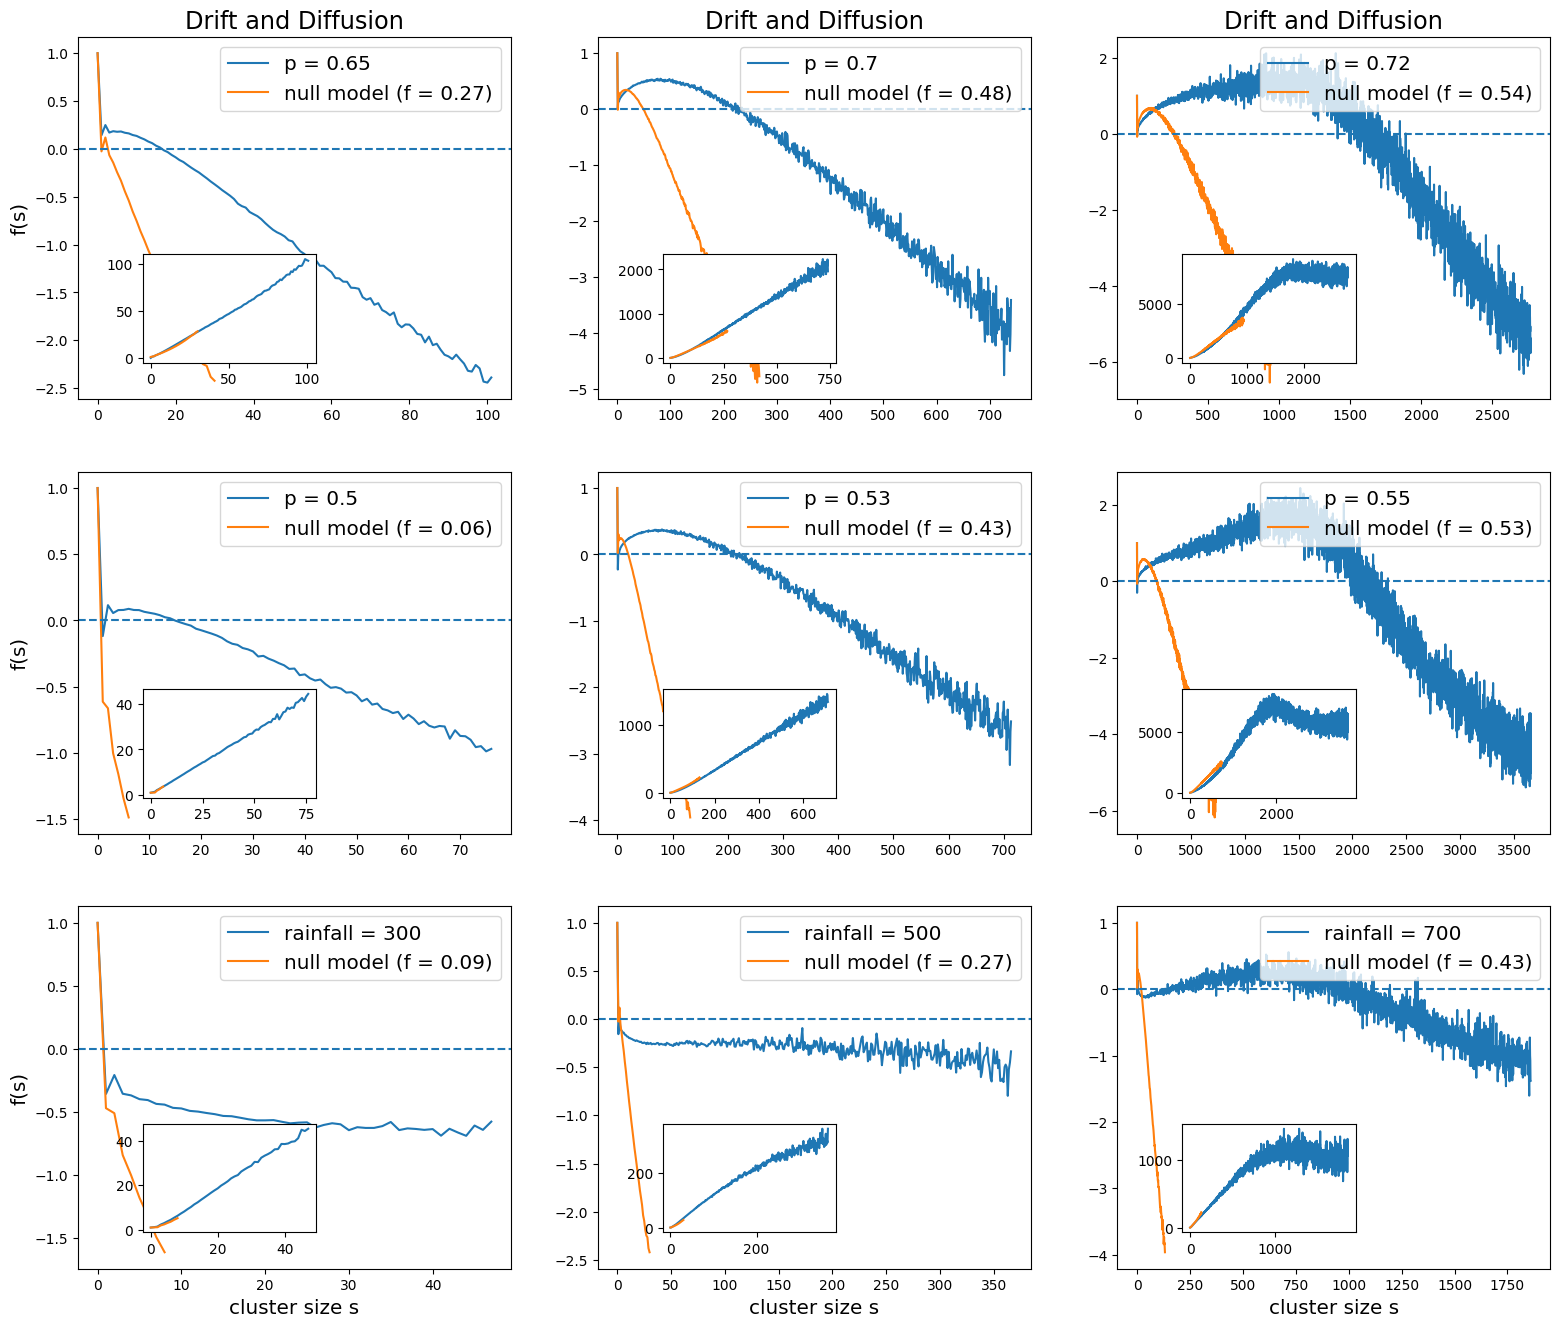
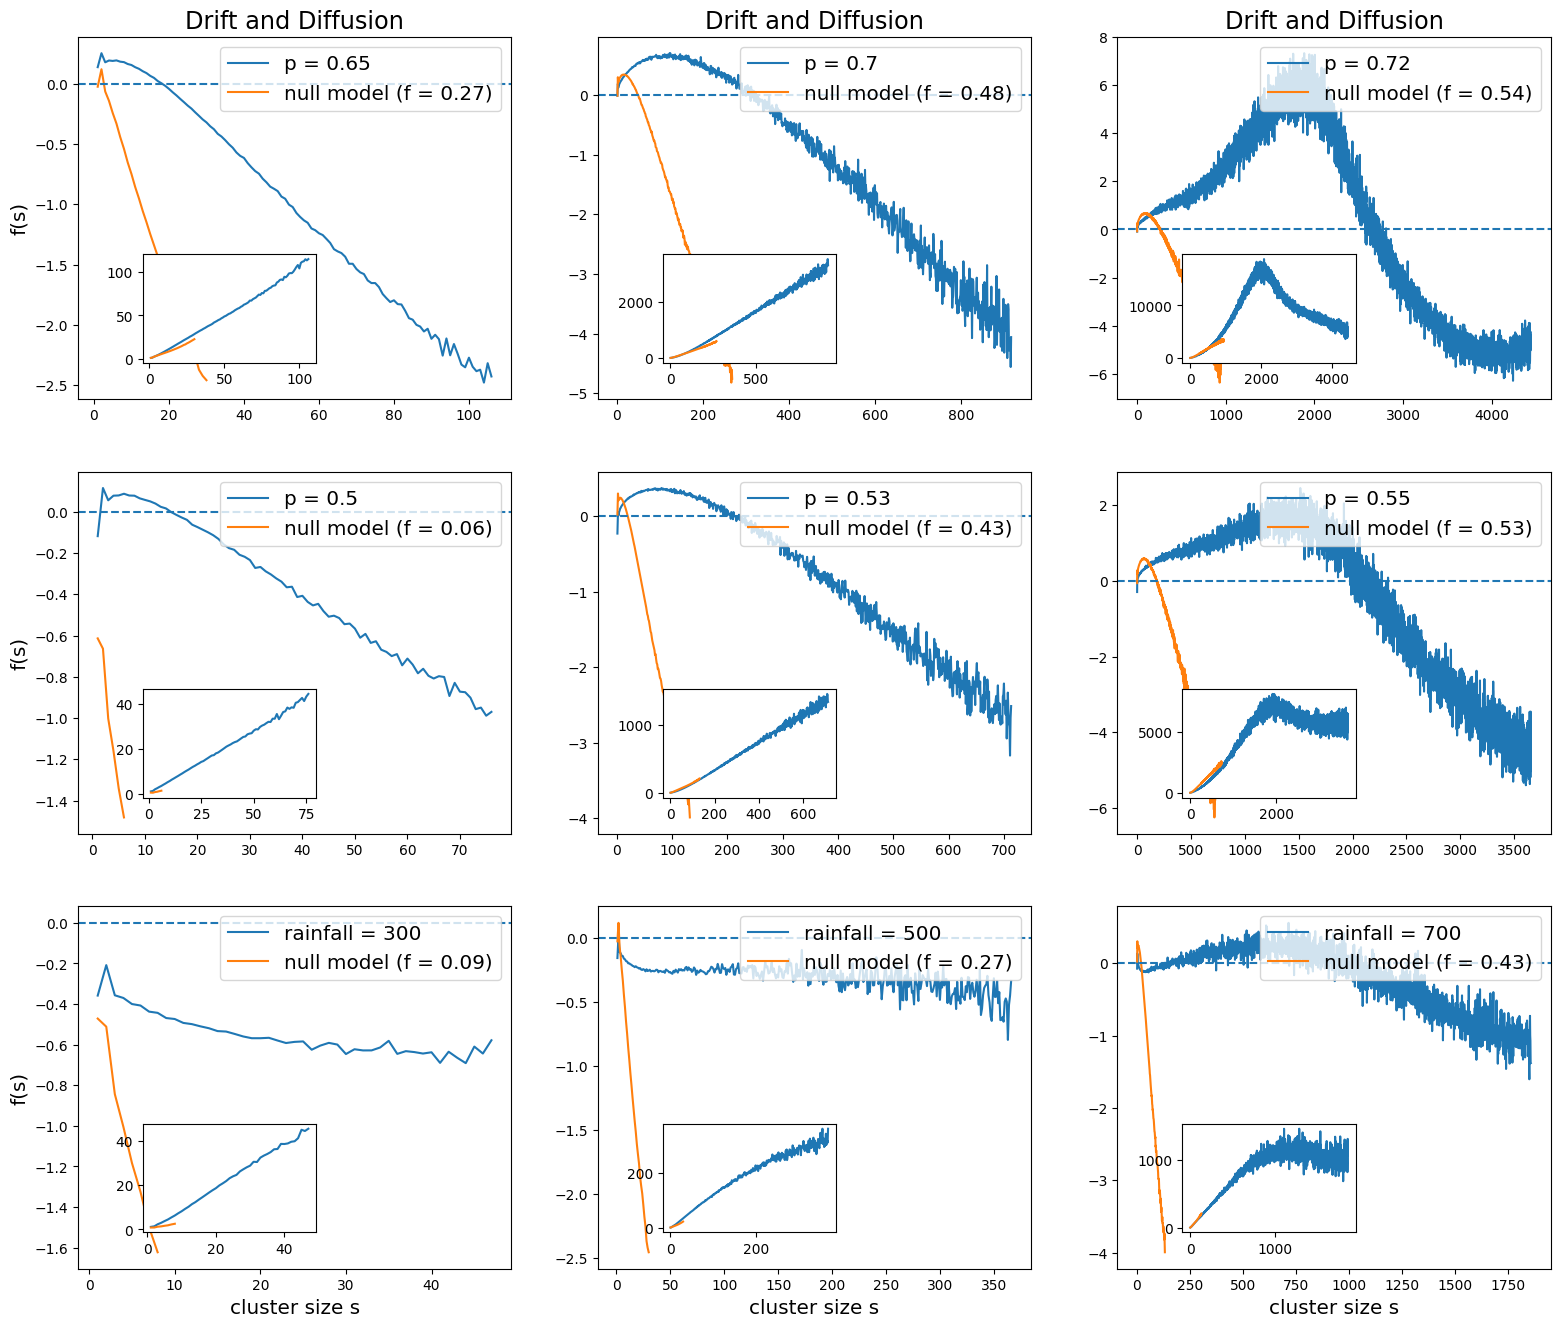
Stray commits

diff --git a/consistency_checks/spatial.py b/consistency_checks/spatial.py
@@ -1,6 +1,7 @@
 from matplotlib import pyplot as plt
 from math import sqrt
-from numpy import array, loadtxt, transpose, zeros
+from numba import njit
+from numpy import array, delete, loadtxt, polyfit, transpose, zeros
 from numpy.random import choice, normal, randint
 from os import path
 from skimage.measure import label
@@ -26,7 +27,7 @@ def load_mean_ds_data(folder_name):
     mean_ds_data, mean_ds_sq_data, number_samples = cluster_ds_data[1], cluster_ds_data[2], cluster_ds_data[3]
 
     limit = 0
-    for i in range(len(mean_ds_data)):
+    for i in range(1, len(mean_ds_data)):
         if number_samples[i] < samples_threshold:
             limit = i
             break
@@ -34,17 +35,80 @@ def load_mean_ds_data(folder_name):
     return array(range(1, limit)), mean_ds_data[1:limit], mean_ds_sq_data[1:limit]
 
 
+def get_cluster_distribution(folder_path, file_name):
+    file_path = path.join(folder_path, file_name)
+    cluster_distribution_data = transpose(loadtxt(open(file_path, 'r')))
+    cluster_sizes, num = cluster_distribution_data[0][1:], cluster_distribution_data[1][1:]
+
+    inverse_cdf = zeros(len(num))
+    for i in range(len(num)):
+        inverse_cdf[i] = sum(num[i:])
+    inverse_cdf = inverse_cdf / sum(num)
+
+    remove_indices = []
+    for i in range(len(cluster_sizes) - 1):
+        if inverse_cdf[i] == inverse_cdf[i + 1]:
+            remove_indices.append(i)
+
+    cluster_sizes = delete(cluster_sizes, remove_indices)
+    inverse_cdf = delete(inverse_cdf, remove_indices)
+
+    return cluster_sizes, inverse_cdf
+
+
+def construct_drift_function(params, approximation):
+    if approximation == "logistic_sqrt":
+        a, b, c = params
+        @njit(fastmath=True)
+        def drift_function(size):
+            return a * sqrt(size) - b * size + c
+        return drift_function
+    
+    elif approximation == "logistic":
+        a, b, c = params
+        @njit(fastmath=True)
+        def drift_function(size):
+            return a * size - b * size ** 2 + c
+        return drift_function
+
+    elif approximation == "poly":
+        @njit(fastmath=True)
+        def drift_function(size):
+            return sum([params[deg] * size ** deg for deg in range(len(params))])
+        return drift_function
+
+    elif approximation == "linear":
+        a, b, c = params
+        @njit(fastmath=True)
+        def drift_function(size):
+            return a * size + c
+        return drift_function
+
+
+@njit(fastmath=True)
+def simulate(cluster_sizes, drift_function):
+    for i in range(num_steps):
+        for j in range(len(cluster_sizes)):
+            drift = drift_function(cluster_sizes[j])
+            diffusion = sqrt(noise_slope * cluster_sizes[j]) * normal()
+            cluster_sizes[j] += (drift * dt + diffusion * sqrt_dt)
+
+            if cluster_sizes[j] <= 0:
+                cluster_sizes[j] = 1
+
+    return cluster_sizes
+
+
 if __name__ == '__main__':
     q = 0
     p = 0.7
     lattice_size = 100
     samples_threshold = 50000
-    # approximation = "linear"
     approximation = "logistic"
 
     results_path = path.join(path.dirname(__file__), "..", 'results')
     model = "tricritical"
-    dataset = "100x100"
+    dataset = "100x100_new"
     subfolder = "q" + str(q).replace('.', 'p')
     folder_name = str(p).replace('.', 'p')
     data_path = path.join(results_path, model, subfolder, dataset)
@@ -68,21 +132,52 @@ if __name__ == '__main__':
         a = fixed_point
         b = 1
         c = 0
+        params = [a, b, c]
+
+        drift_function = construct_drift_function(params, approximation)
 
         max_x = fixed_point / 2
-        max_value = a * max_x - b * max_x ** 2 + c
+        max_value = drift_function(max_x)
         scaling_constant = max(cluster_ds) / max_value
 
         a *= scaling_constant
         b *= scaling_constant
         c *= scaling_constant
-    else:
+        params = [a, b, c]
+
+        drift_function = construct_drift_function(params, approximation)
+    elif approximation == "logistic_sqrt":
+        a = sqrt(fixed_point)
+        b = 1
+        c = 0
+        params = [a, b, c]
+
+        drift_function = construct_drift_function(params, approximation)
+
+        max_x = (a / (2 * b)) ** 2
+        max_value = drift_function(max_x)
+        scaling_constant = max(cluster_ds) / max_value
+
+        a *= scaling_constant
+        b *= scaling_constant
+        c *= scaling_constant
+        params = [a, b, c]
+
+        drift_function = construct_drift_function(params, approximation)
+    elif approximation == "poly":
+        params = polyfit(cluster_sizes, cluster_ds, 6)
+        params = array(list(reversed(params)))
+        drift_function = construct_drift_function(params, approximation)
+    elif approximation == "linear":
         slope, intercept, _ = perform_linear_regression(cluster_sizes, cluster_ds)
         a = slope
         b = 0
         c = intercept
+        params = [a, b, c]
 
-    plt.title(f"Drift term approximation for (p, q) = ({p}, {q})")
+        drift_function = construct_drift_function(params, approximation)
+
+    plt.title(f"Drift term approximation ({approximation}) for (p, q) = ({p}, {q})")
     plt.xlabel("Cluster size s")
     plt.ylabel("$f(s)$")
     plt.plot(cluster_sizes, cluster_ds, label="data")
@@ -100,8 +195,8 @@ if __name__ == '__main__':
     plt.legend()
     plt.show()
 
-    simulation_time = 500
-    dt = 0.1
+    simulation_time = 1000
+    dt = 0.01
     sqrt_dt = sqrt(dt)
     num_steps = int(simulation_time / dt)
 
@@ -109,24 +204,8 @@ if __name__ == '__main__':
 
     cluster_sizes = init_cluster_sizes.copy()
     num_clusters = len(cluster_sizes)
-    print(f"Number of clusters: {num_clusters}")
+    cluster_sizes = simulate(cluster_sizes, drift_function)
 
-    num_interventions = 0
-    for _ in tqdm(range(num_steps)):
-        # print(cluster_sizes[0])
-
-        for i in range(num_clusters):
-            drift = a * cluster_sizes[i] - b * cluster_sizes[i] ** 2 + c
-            diffusion = sqrt(noise_slope * cluster_sizes[i]) * normal()
-            cluster_sizes[i] += (drift * dt + diffusion * sqrt_dt)
-
-            if cluster_sizes[i] <= 0:
-                num_interventions += 1
-
-                # cluster_sizes[i] = 0
-                cluster_sizes[i] = choice(init_cluster_sizes, 1)[0]
-
-    print(f"Number of interventions: {num_interventions}")
     print(cluster_sizes)
 
     pdf = zeros(int(max(cluster_sizes)) + 1)
@@ -141,6 +220,10 @@ if __name__ == '__main__':
     plt.title(f"Cluster size distribution for (p, q) = ({p}, {q})")
     plt.xlabel("Cluster size s")
     plt.ylabel("P(S > s)")
-    plt.loglog(range(1, len(pdf) + 1), inverse_cdf, label="inverse cdf")
+    plt.loglog(range(1, len(pdf) + 1), inverse_cdf, label="SDE simulation")
+
+    cluster_sizes, inverse_cdf = get_cluster_distribution(path.join(data_path, folder_name), f"{folder_name}_cluster_distribution.txt")
+    plt.loglog(cluster_sizes, inverse_cdf, label="actual data")
+    plt.legend()
     plt.savefig(f"spatial.png")
     plt.show()

diff --git a/consistency_checks/temporal.py b/consistency_checks/temporal.py
@@ -1,7 +1,7 @@
 from matplotlib import pyplot as plt
 from math import sqrt
 from numba import njit
-from numpy import array, histogram, loadtxt, polyfit, transpose, zeros
+from numpy import array, cumsum, delete, histogram, loadtxt, polyfit, transpose, zeros
 from numpy.random import choice, normal, randint
 from os import path
 from skimage.measure import label
@@ -22,6 +22,27 @@ def load_mean_ds_data(folder_name):
             break
 
     return array(range(1, limit)), mean_ds_data[1:limit], mean_ds_sq_data[1:limit]
+
+
+def get_cluster_distribution(folder_path, file_name):
+    file_path = path.join(folder_path, file_name)
+    cluster_distribution_data = transpose(loadtxt(open(file_path, 'r')))
+    cluster_sizes, num = cluster_distribution_data[0][1:], cluster_distribution_data[1][1:]
+
+    inverse_cdf = zeros(len(num))
+    for i in range(len(num)):
+        inverse_cdf[i] = sum(num[i:])
+    inverse_cdf = inverse_cdf / sum(num)
+
+    remove_indices = []
+    for i in range(len(cluster_sizes) - 1):
+        if inverse_cdf[i] == inverse_cdf[i + 1]:
+            remove_indices.append(i)
+
+    cluster_sizes = delete(cluster_sizes, remove_indices)
+    inverse_cdf = delete(inverse_cdf, remove_indices)
+
+    return cluster_sizes, inverse_cdf
 
 
 def construct_drift_function(params, approximation):
@@ -64,7 +85,7 @@ def simulate(time_series, drift_function):
         size += (drift * dt + diffusion * sqrt_dt)
 
         if size < 0:
-            size = randint(1, 1000)
+            size = 1
 
 
 if __name__ == '__main__':
@@ -179,10 +200,18 @@ if __name__ == '__main__':
     plt.show()
 
     hist, bins = histogram(time_series, bins=range(0, int(max(time_series)) + 1))
+    hist = hist / sum(hist)
+    inverse_cdf = zeros(len(hist))
+    for i in range(len(hist)):
+        inverse_cdf[i] = sum(hist[i:])
     
-    plt.title(f"Histogram for time series of (p, q) = ({p}, {q})")
+    plt.title(f"Inverse CDF of time series of (p, q) = ({p}, {q})")
     plt.xlabel("Cluster size")
     plt.ylabel("Frequency")
-    plt.loglog(bins[:-1], hist)
+    plt.loglog(bins[:-1], inverse_cdf, label="SDE simulation")
+
+    cluster_sizes, inverse_cdf = get_cluster_distribution(path.join(data_path, folder_name), f"{folder_name}_cluster_distribution.txt")
+    plt.loglog(cluster_sizes, inverse_cdf, label="actual data")
+    plt.legend()
     plt.savefig("temporal.png")
     plt.show()

diff --git a/plotters/fig3.py b/plotters/fig3.py
@@ -9,7 +9,7 @@ def get_sde(folder_path, file_name):
     mean_ds_data, mean_ds_sq_data, number_samples = cluster_ds_data[1], cluster_ds_data[2], cluster_ds_data[3]
 
     limit = 0
-    for i in range(len(mean_ds_data)):
+    for i in range(1, len(mean_ds_data)):
         if number_samples[i] < samples_threshold:
             limit = i
             break
